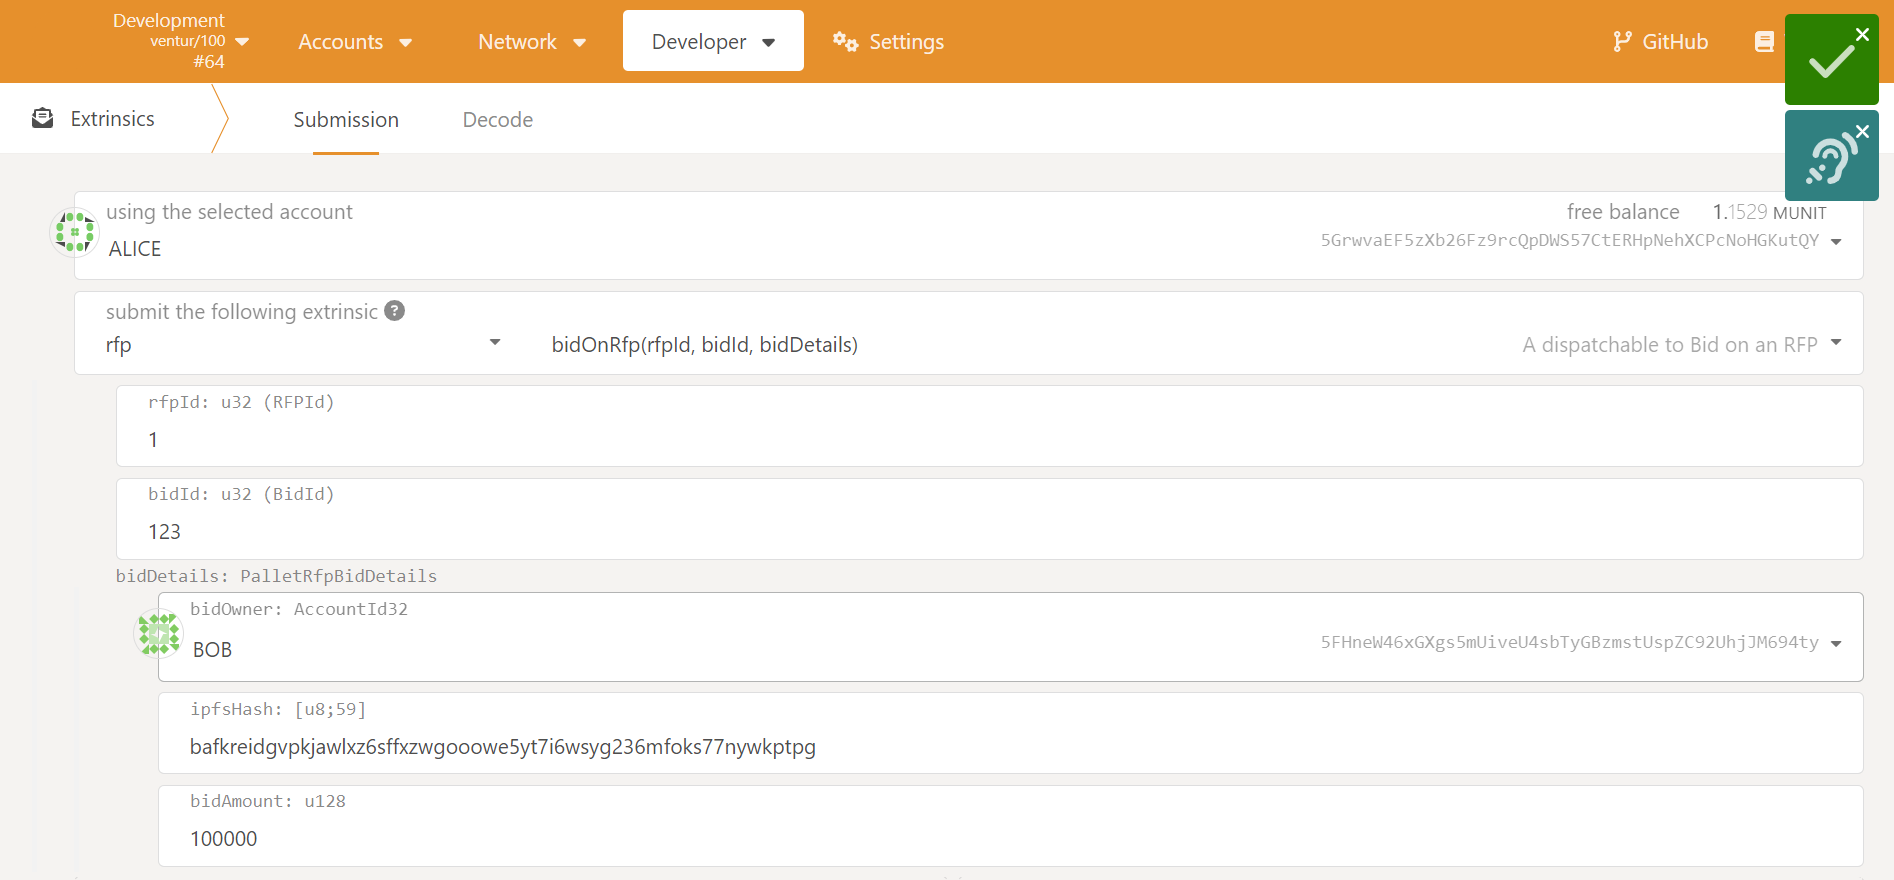
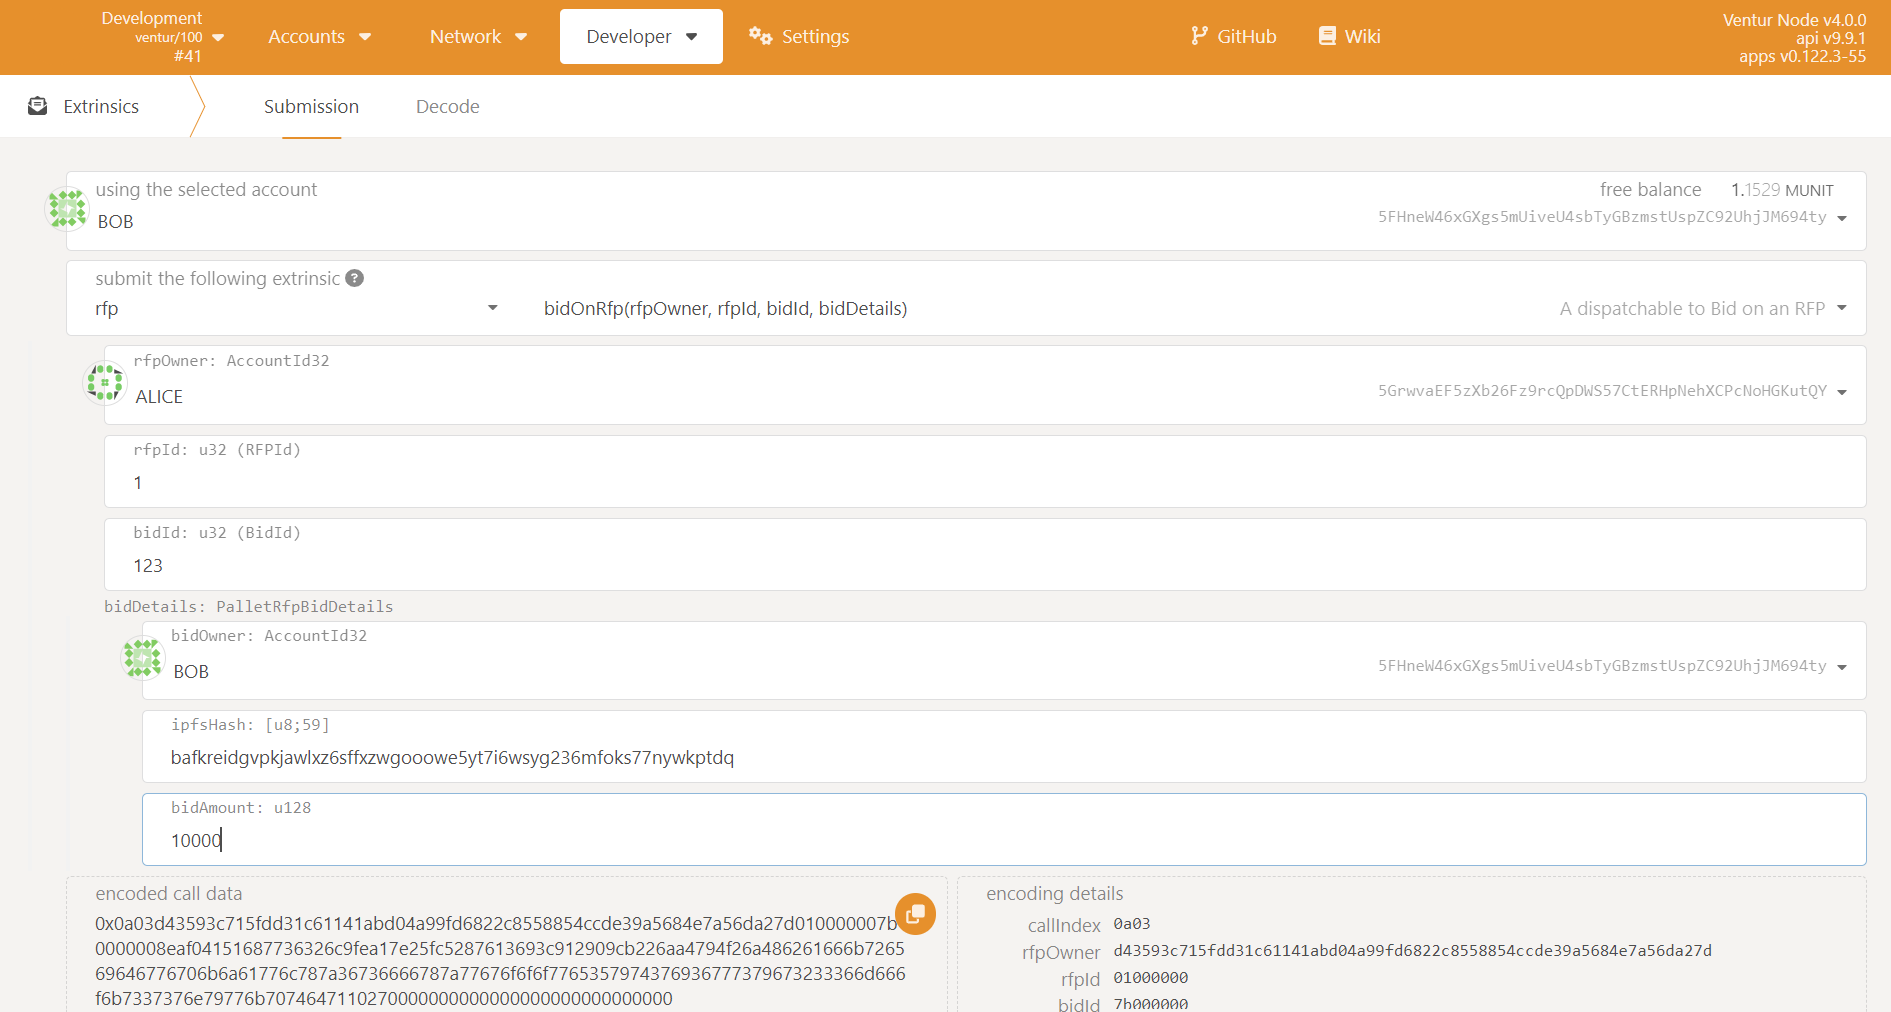
docs: update readme with new parameters in some extrinsics

diff --git a/pallets/rfp/README.md b/pallets/rfp/README.md
@@ -107,7 +107,7 @@ If you are not able to access the block explorer on polkadot.js.org, you should:
 
 | _Creating An RFP_ |
 |:--:|
-|![Creating an RFP](docs/create_rfp.png)|
+|![Creating an RFP](docs/create-rfp.png)|
 
 1. Navigate to the `createRFP` extrinsic
 2. Select your RFP owner and input an RFP ID
@@ -142,7 +142,8 @@ Instead, you can modify the RFP using the `updateRFP` extrinsic:
 
 Once you're ready to bid on an RFP, navigate to the `bidOnRFP` extrinsic
 
-1. Input an existing RFPId
+1. Input the RFP Owner Id
+2. Input an existing RFPId
 2. Input a unique Bid Id
 3. Fill in the bid details, including the owner of the bid, the CID of the the bid stored in IPFS, and the proposed Payment Amount associated with the bid
 4. Click on `Submit Transaction`
